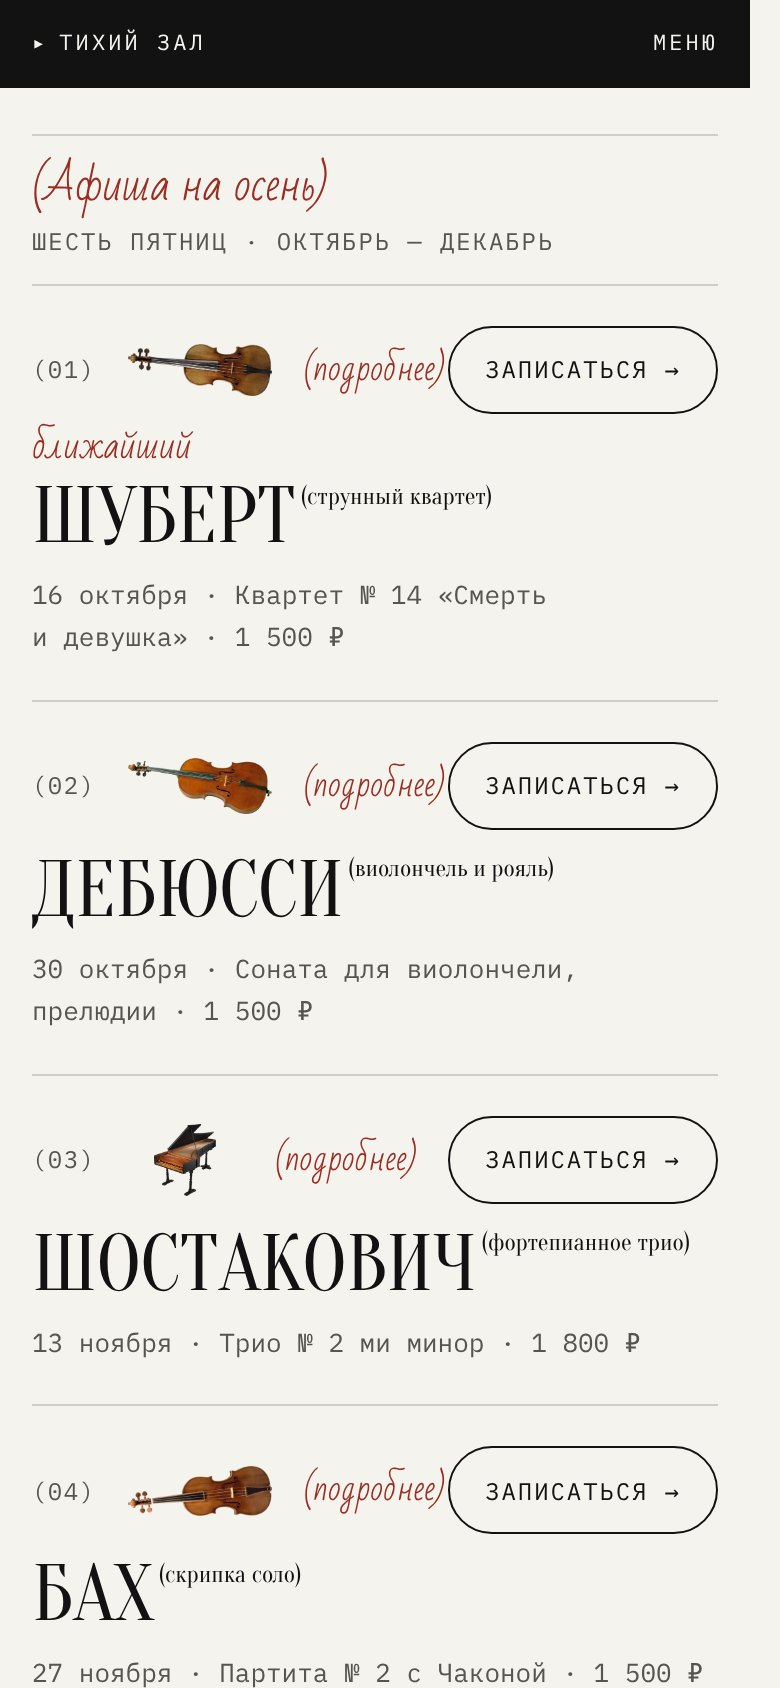
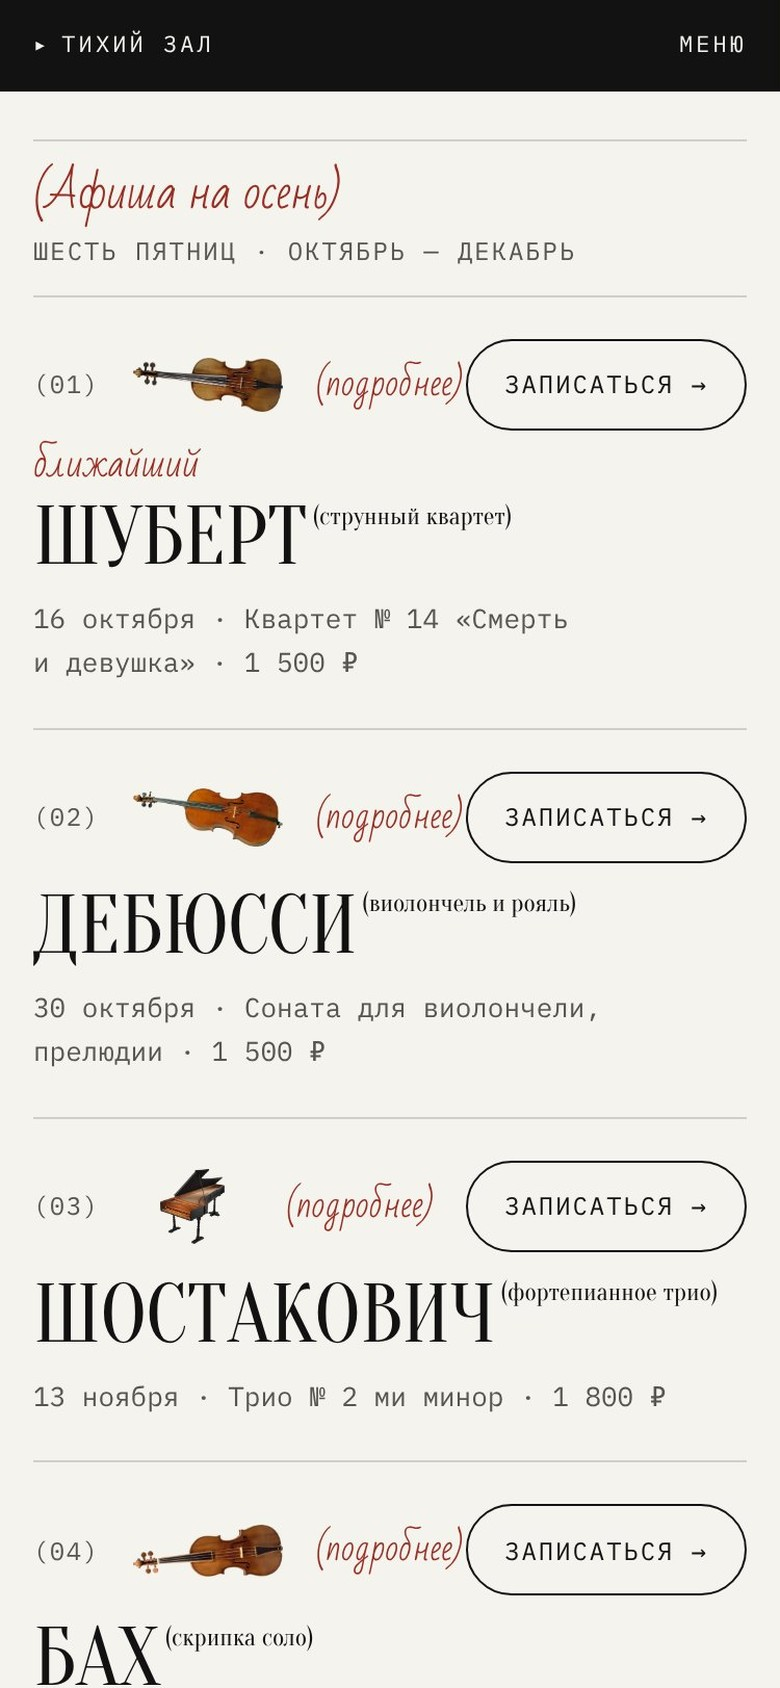
Новая картинка для мессенджеров, скриншоты телефона без полосы прокрутки
- public/og.jpg: кадр новой главной (надпись на воде) вместо старого
- телефонные скриншоты «Каре» и «Тихого зала»: обрезана светлая полоса прокрутки справа
- README: как записывать ровное видео сцены (?scene=record)

Claude-Session: https://claude.ai/code/session_01EqjaGEMsxfvaRW2MYHcQtJ

diff --git a/README.md b/README.md
@@ -43,7 +43,7 @@ npm run preview                 # посмотреть сборку: http://loca
 
 Перед `dev` и `build` скрипт `scripts/images.mjs` делает из скриншотов WebP разных ширин в `public/img/` (папка не хранится в git). Адрес сайта задаёт `BASE_PATH`: без него сборка рассчитана на `/site-portfolio/`, как на GitHub Pages.
 
-3D-сцену можно включить и там, где сайт её обычно не показывает (слабая графика, автотесты): `?scene=force` в адресе главной.
+3D-сцену можно включить и там, где сайт её обычно не показывает (слабая графика, автотесты): `?scene=force` в адресе главной. Для записи ровного видео на медленной машине есть `?scene=record`: сцена стоит на месте, а время двигает скрипт через `window.__sceneAdvance(секунды)`, после каждого шага снимается кадр.
 
 ## Где что
 
